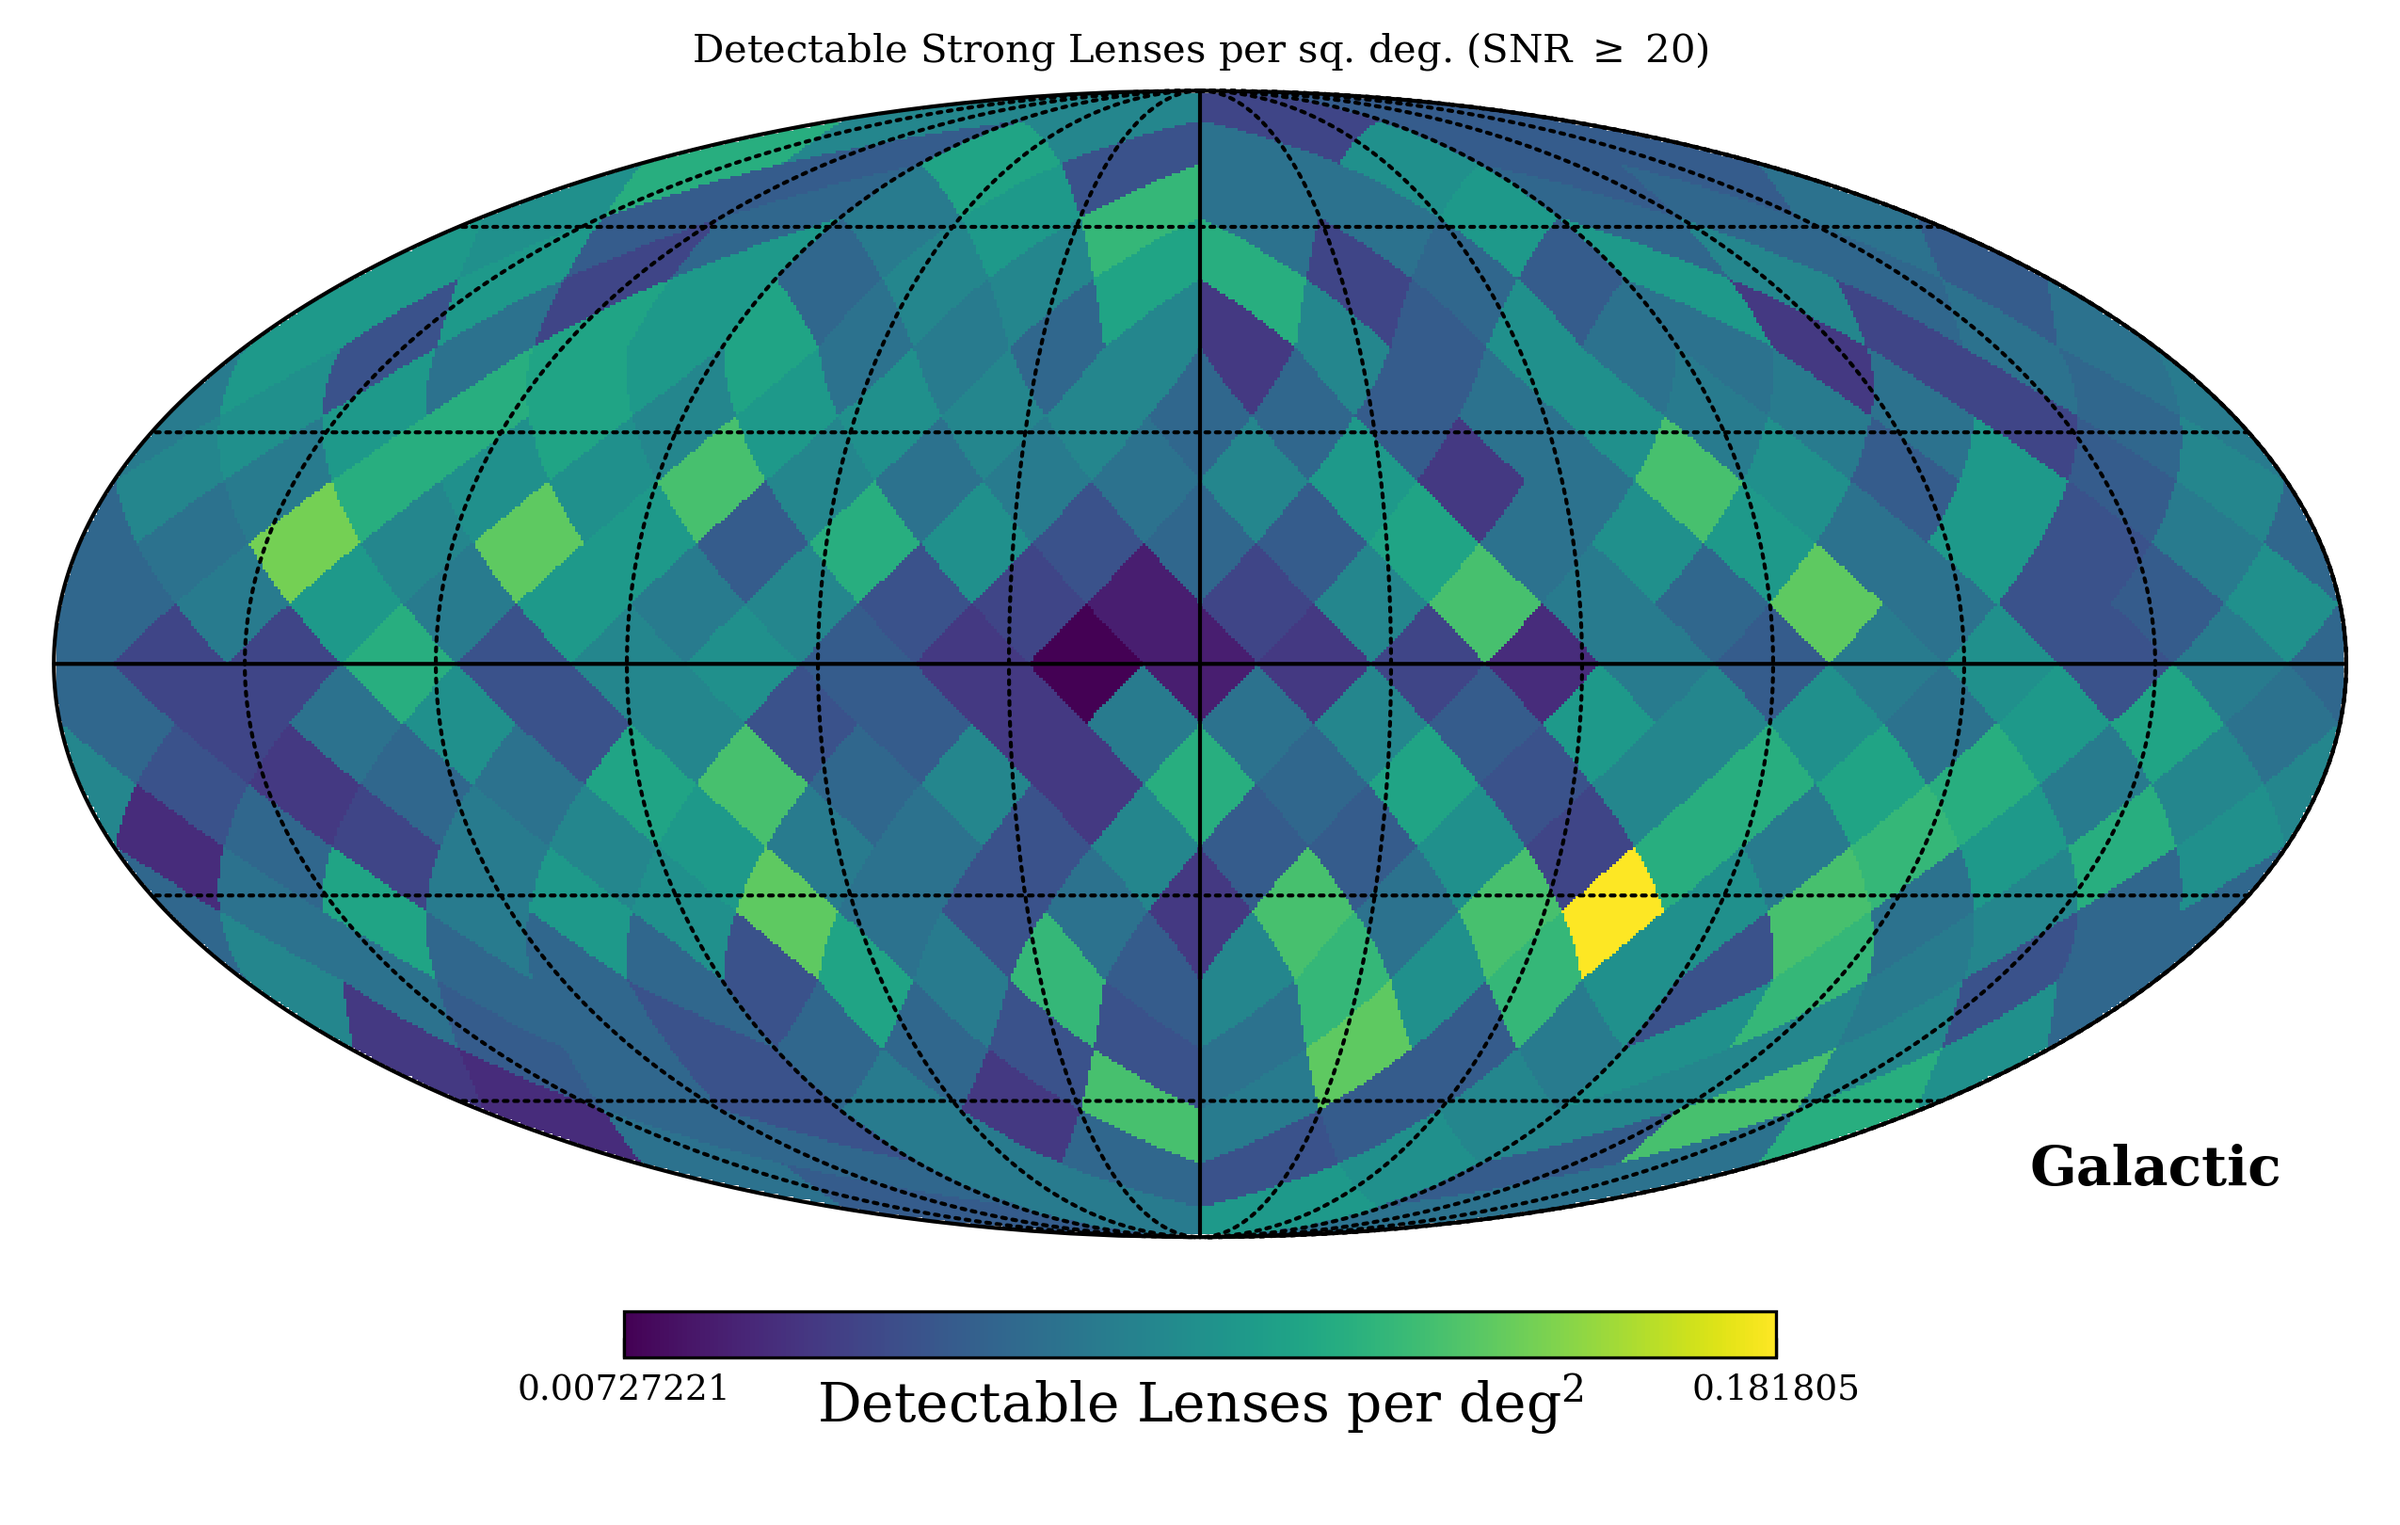
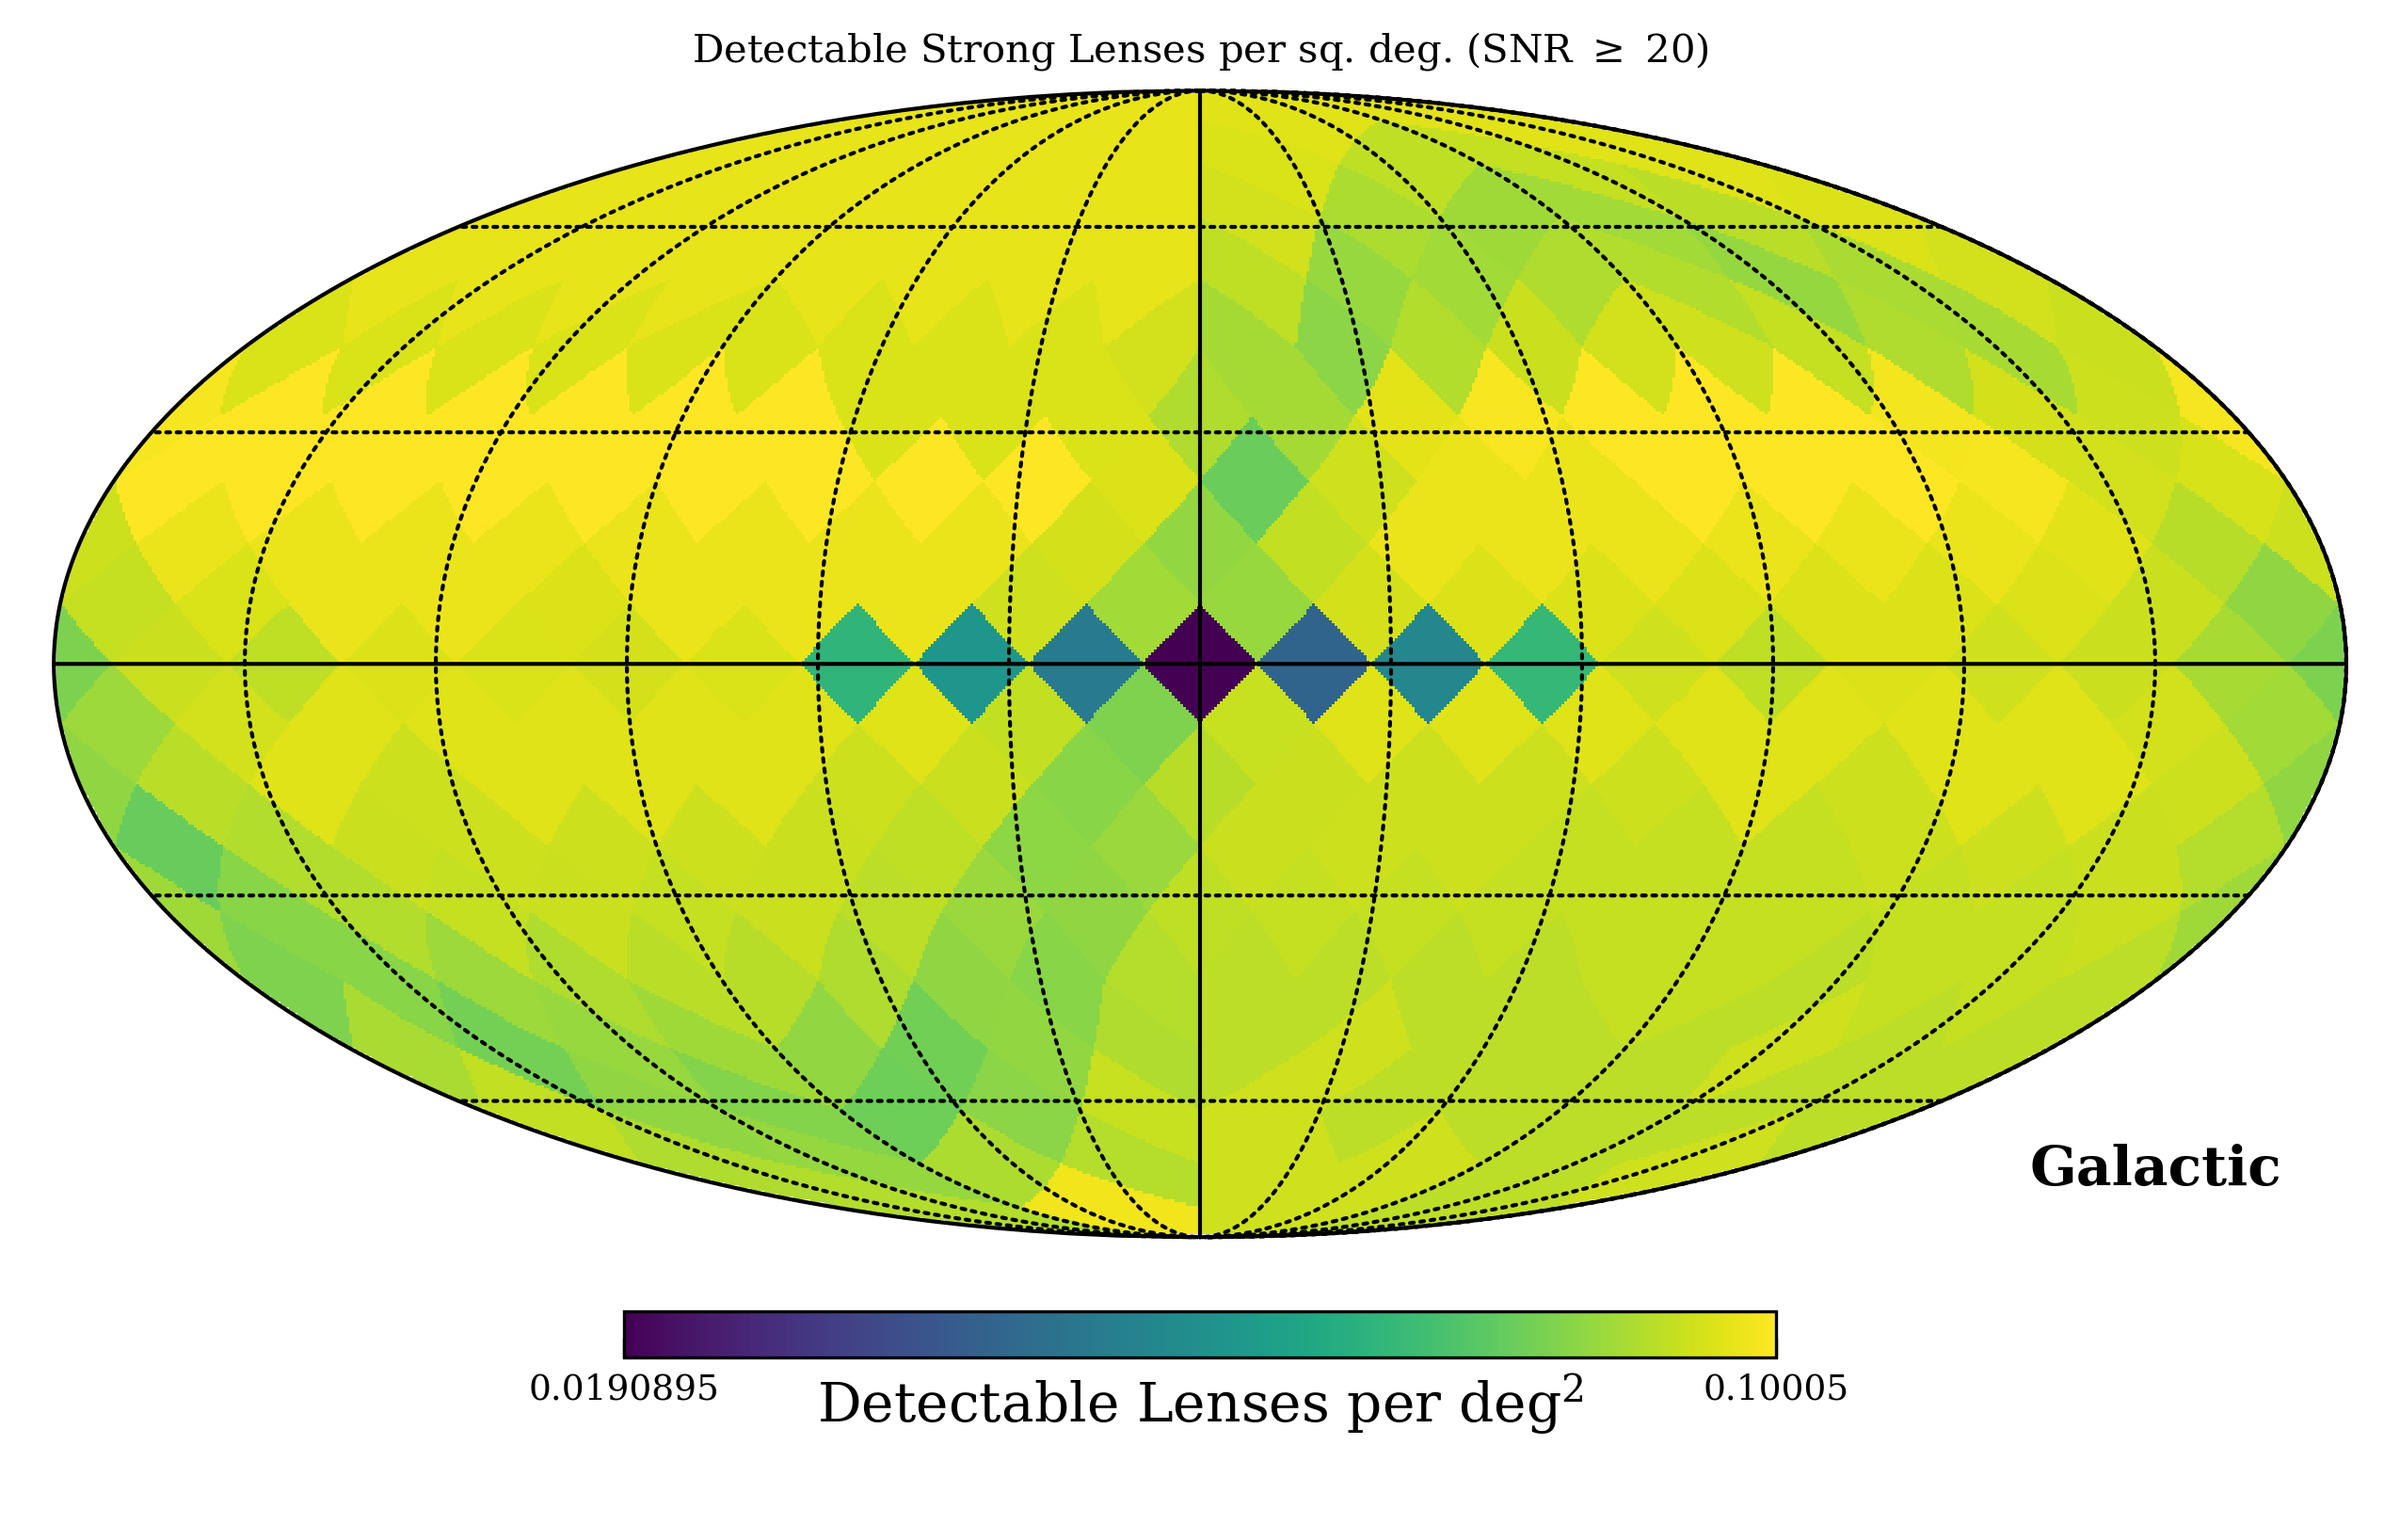
update nancy script

diff --git a/projects/nancy/nancy.py b/projects/nancy/nancy.py
@@ -1,4 +1,3 @@
-
 import os
 os.environ['OMP_NUM_THREADS'] = '1'
 os.environ['MKL_NUM_THREADS'] = '1'
@@ -29,6 +28,7 @@ from mejiro.utils.pipeline_helper import PipelineHelper
 from mejiro.instruments.roman import Roman
 from mejiro.engines.galsim_engine import GalSimEngine
 from mejiro.exposure import Exposure
+from mejiro.synthetic_image import SyntheticImage
 
 set_aas_style()
 
@@ -47,8 +47,8 @@ args = Namespace(config='nancy.yaml')
 pipeline = PipelineHelper(args, '04', 'nancy', ['roman'])
 
 if config['dev']:
-    pipeline.input_dir = '/nfsdata1/bwedig/mejiro/nancy_dev/04'
-input_pickles = pipeline.retrieve_roman_pickles(prefix='SyntheticImage', suffix='', extension='.pkl')
+    pipeline.input_dir = '/nfsdata1/bwedig/mejiro/nancy_dev/02'
+input_pickles = pipeline.retrieve_roman_pickles(prefix='lens', suffix='', extension='.pkl')
 print(f'Found {len(input_pickles)} input pickle(s).')
 
 
@@ -56,6 +56,9 @@ dev = False
 runs = 1
 snr_threshold = 20
 num_cores = 32
+survey_area = 0.5
+runs = 128
+total_area = survey_area * runs
 
 # HEALPix uses nside parameter where npix = 12 * nside^2
 if dev:
@@ -86,7 +89,7 @@ hp.graticule()
 # Overplot the pixel centers
 # hp.projscatter(theta, phi, marker='o', color='red', s=20)
 
-plt.savefig('healpix_sky_map.png', dpi=300)
+plt.savefig('figures/healpix_sky_map.png', dpi=300)
 plt.close()
 
 # Get the area of each pixel in square degrees
@@ -111,7 +114,7 @@ hp.mollview(np.log10(bkg_array),
             title=r"Total Background at 1.46 $\mu$m", 
             cmap='viridis', coord='G', unit=r'$\log_{10}$(MJy/Sr)')
 hp.graticule()
-plt.savefig('total_bkg.png', dpi=300)
+plt.savefig('figures/total_bkg.png', dpi=300)
 plt.close()
 
 
@@ -224,32 +227,24 @@ hp.mollview(np.log10(cps_array),
             title=r"Roman F146 Total Background from Roman Background Tool", 
             cmap='viridis', coord='G', unit=r'$\log_{10}$(Counts/sec)')
 hp.graticule()
-plt.savefig('total_bkg_roman_f146.png', dpi=300)
+plt.savefig('figures/total_bkg_roman_f146.png', dpi=300)
 plt.close()
-
-
-synthetic_images = []
-for p in tqdm(input_pickles):
-    synthetic_images.append(util.unpickle(p))
-print(f'Loaded {len(synthetic_images)} synthetic image(s).')
 
 
 roman = Roman()
 engine_params = GalSimEngine.defaults(roman.name)
+kwargs_numerics = SyntheticImage.DEFAULT_KWARGS_NUMERICS
+kwargs_numerics['supersampling_factor'] = 5
+kwargs_numerics['compute_mode'] = 'adaptive'
 
-
-survey_area = 0.5
-runs = 128
-total_area = survey_area * runs
-
-min_zodi_det_per_sq_deg = len(synthetic_images) / total_area
-print(f'Detectable strong lenses per sq. deg.: {min_zodi_det_per_sq_deg:.2f}')
+min_zodi_det_per_sq_deg = len(input_pickles) / total_area
+print(f'Expected detectable strong lenses per sq. deg. at minimum zodiacal light: {min_zodi_det_per_sq_deg:.2f}')
 
 expected_num_per_pixel = min_zodi_det_per_sq_deg * pixel_area
 if dev:
     expected_num_per_pixel /= 100
 rv = poisson(expected_num_per_pixel)
-print(f'Expected number of detectable lenses per healpix pixel: {expected_num_per_pixel:.4f}')
+print(f'Expected number per healpix pixel: {expected_num_per_pixel:.4f}')
 
 def process_cps(cps):
     """Process one cps value - this runs in parallel"""
@@ -259,12 +254,27 @@ def process_cps(cps):
         
         # randomly draw the appropriate number of strong lenses for this healpix pixel
         num_lenses = rv.rvs()
-        synth_images_for_pixel = np.random.choice(synthetic_images, size=num_lenses, replace=True)
+        pkls_for_pixel = np.random.choice(input_pickles, size=num_lenses, replace=True)
         
-        for img in synth_images_for_pixel:
+        for pkl in pkls_for_pixel:
             # Make a local copy to avoid any potential issues with shared state
             engine_params_local = engine_params.copy()
             engine_params_local['background_cps'] = cps
+            kwargs_numerics_local = kwargs_numerics.copy()
+
+            # unpickle the lens
+            lens = util.unpickle(pkl)
+
+            # create synthetic image
+            img = SyntheticImage(lens,
+                                 instrument=roman,
+                                 band='F146',
+                                 fov_arcsec=np.max([lens.get_einstein_radius() * 4, 1]),
+                                #  instrument_params=instrument_params,
+                                 kwargs_numerics=kwargs_numerics_local,
+                                #  kwargs_psf=kwargs_psf,
+                                 pieces=True,
+                                 verbose=False)
             
             exposure = Exposure(img,
                         exposure_time=30,
@@ -297,5 +307,10 @@ hp.mollview(np.array(detectable_counts),
             title=f"Detectable Strong Lenses per sq. deg. (SNR $\geq$ {snr_threshold})", 
             cmap='viridis', coord='G', unit=r'Detectable Lenses per deg$^2$')
 hp.graticule()
-plt.savefig('nancy_detectable_sky_map.png', dpi=300)
+plt.savefig('figures/nancy_detectable_sky_map.png', dpi=300)
 plt.close()
+
+if dev:
+    np.save('nancy_detectable_counts_dev.npy', np.array(detectable_counts))
+else:
+    np.save('nancy_detectable_counts.npy', np.array(detectable_counts))

diff --git a/projects/nancy/calculate_total_detectable.py b/projects/nancy/calculate_total_detectable.py
@@ -1,0 +1,19 @@
+import healpy as hp
+import numpy as np
+import os
+
+detectable_counts = np.load('nancy_detectable_counts.npy')
+
+nside = 5
+npix = hp.nside2npix(nside)
+pixel_area = hp.nside2pixarea(nside, degrees=True)
+print(f"Area per pixel: {pixel_area:.2f} sq deg")
+
+total = 0
+
+for pix in range(npix):
+    # for each pixel, that the detectable count per sq. deg. * area per pixel
+    # to get the total detectable counts in that pixel
+    total += (detectable_counts[pix] * pixel_area)
+
+print(f"Total detectable counts over the sky: {total:.2f}")
